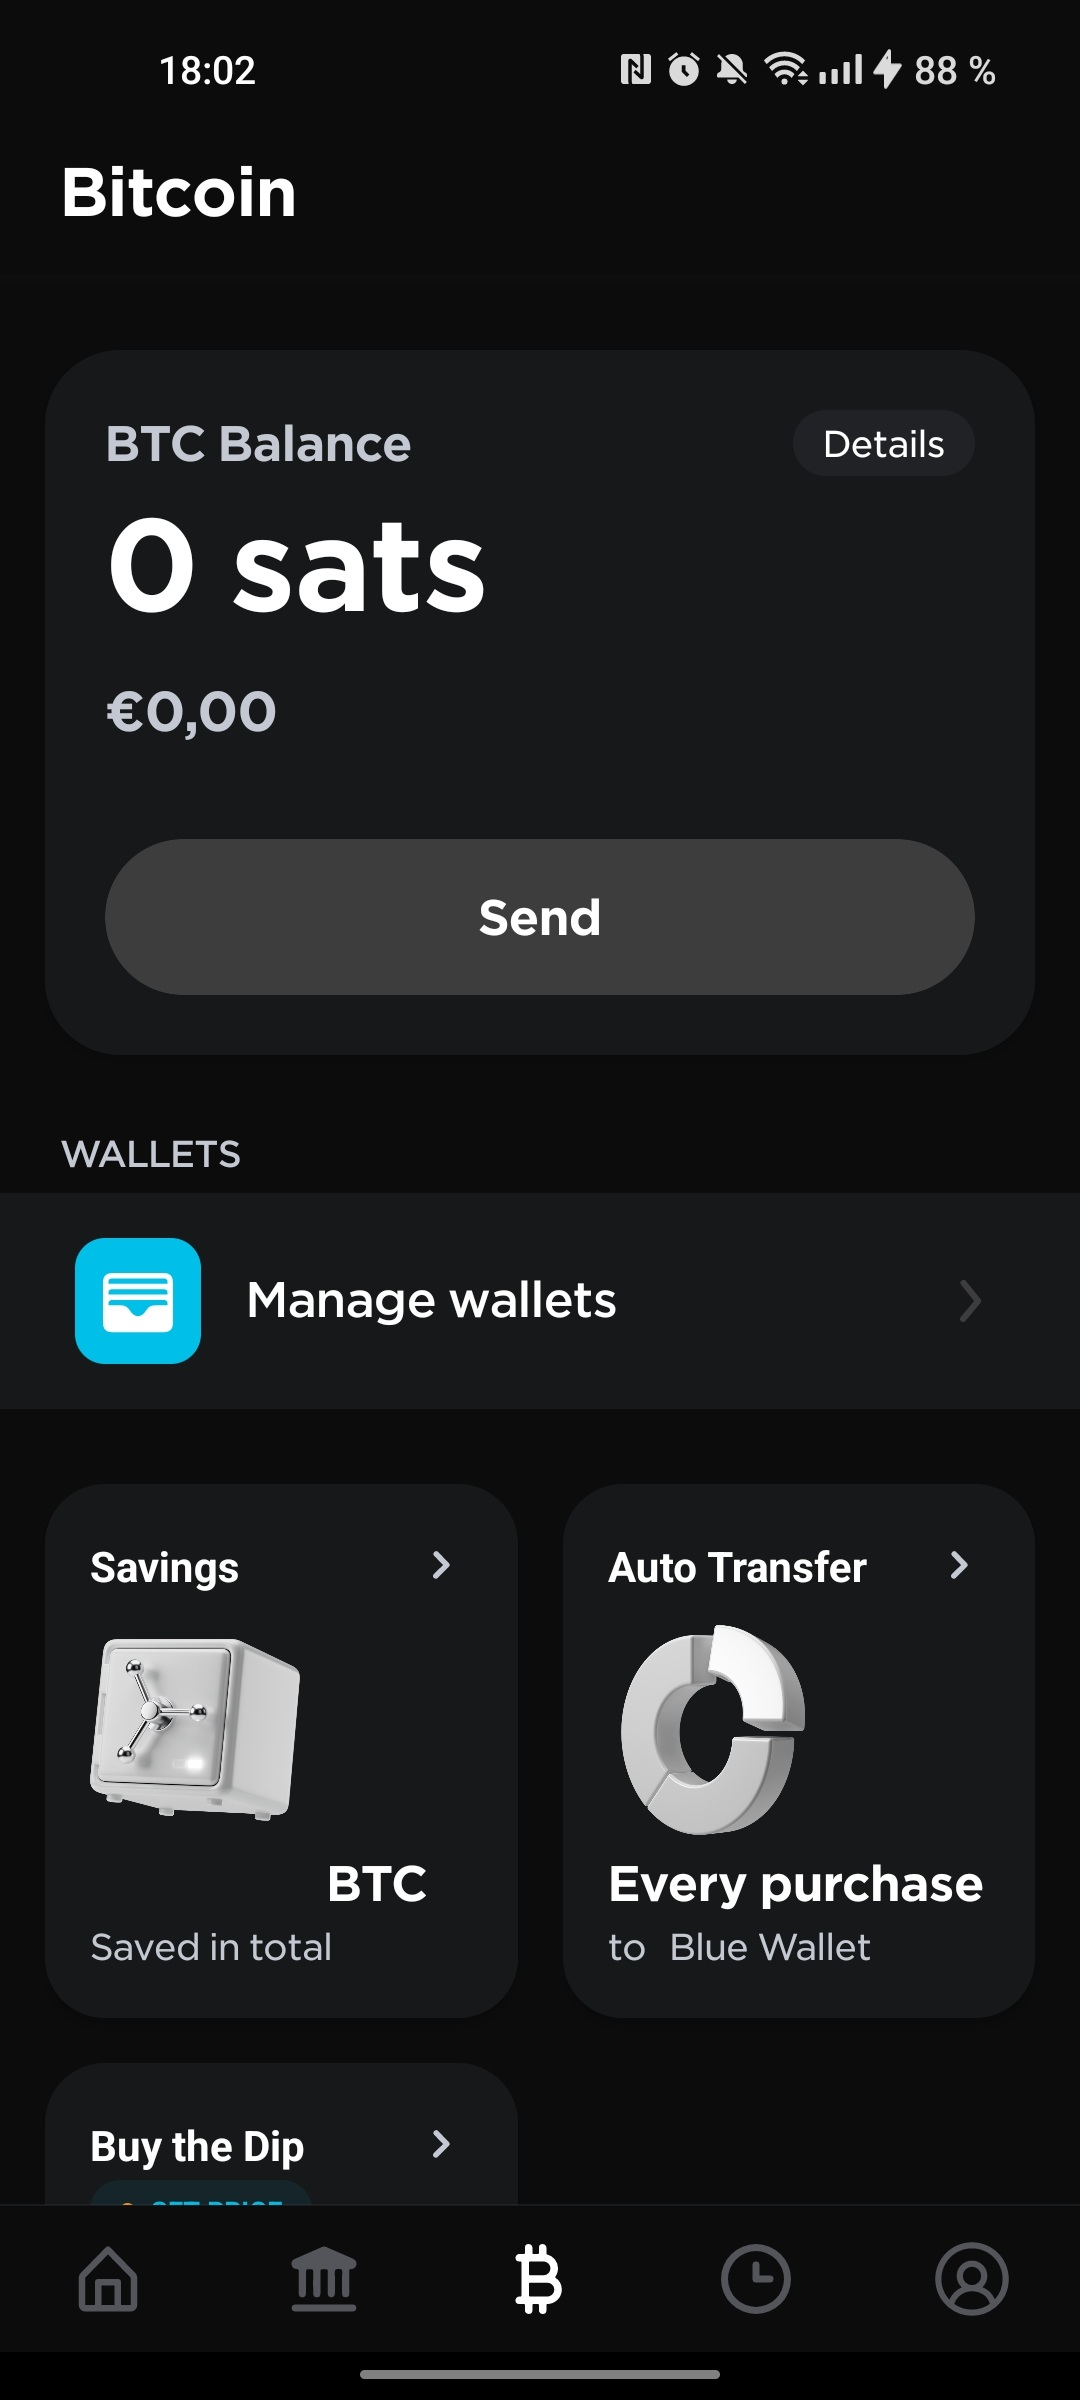
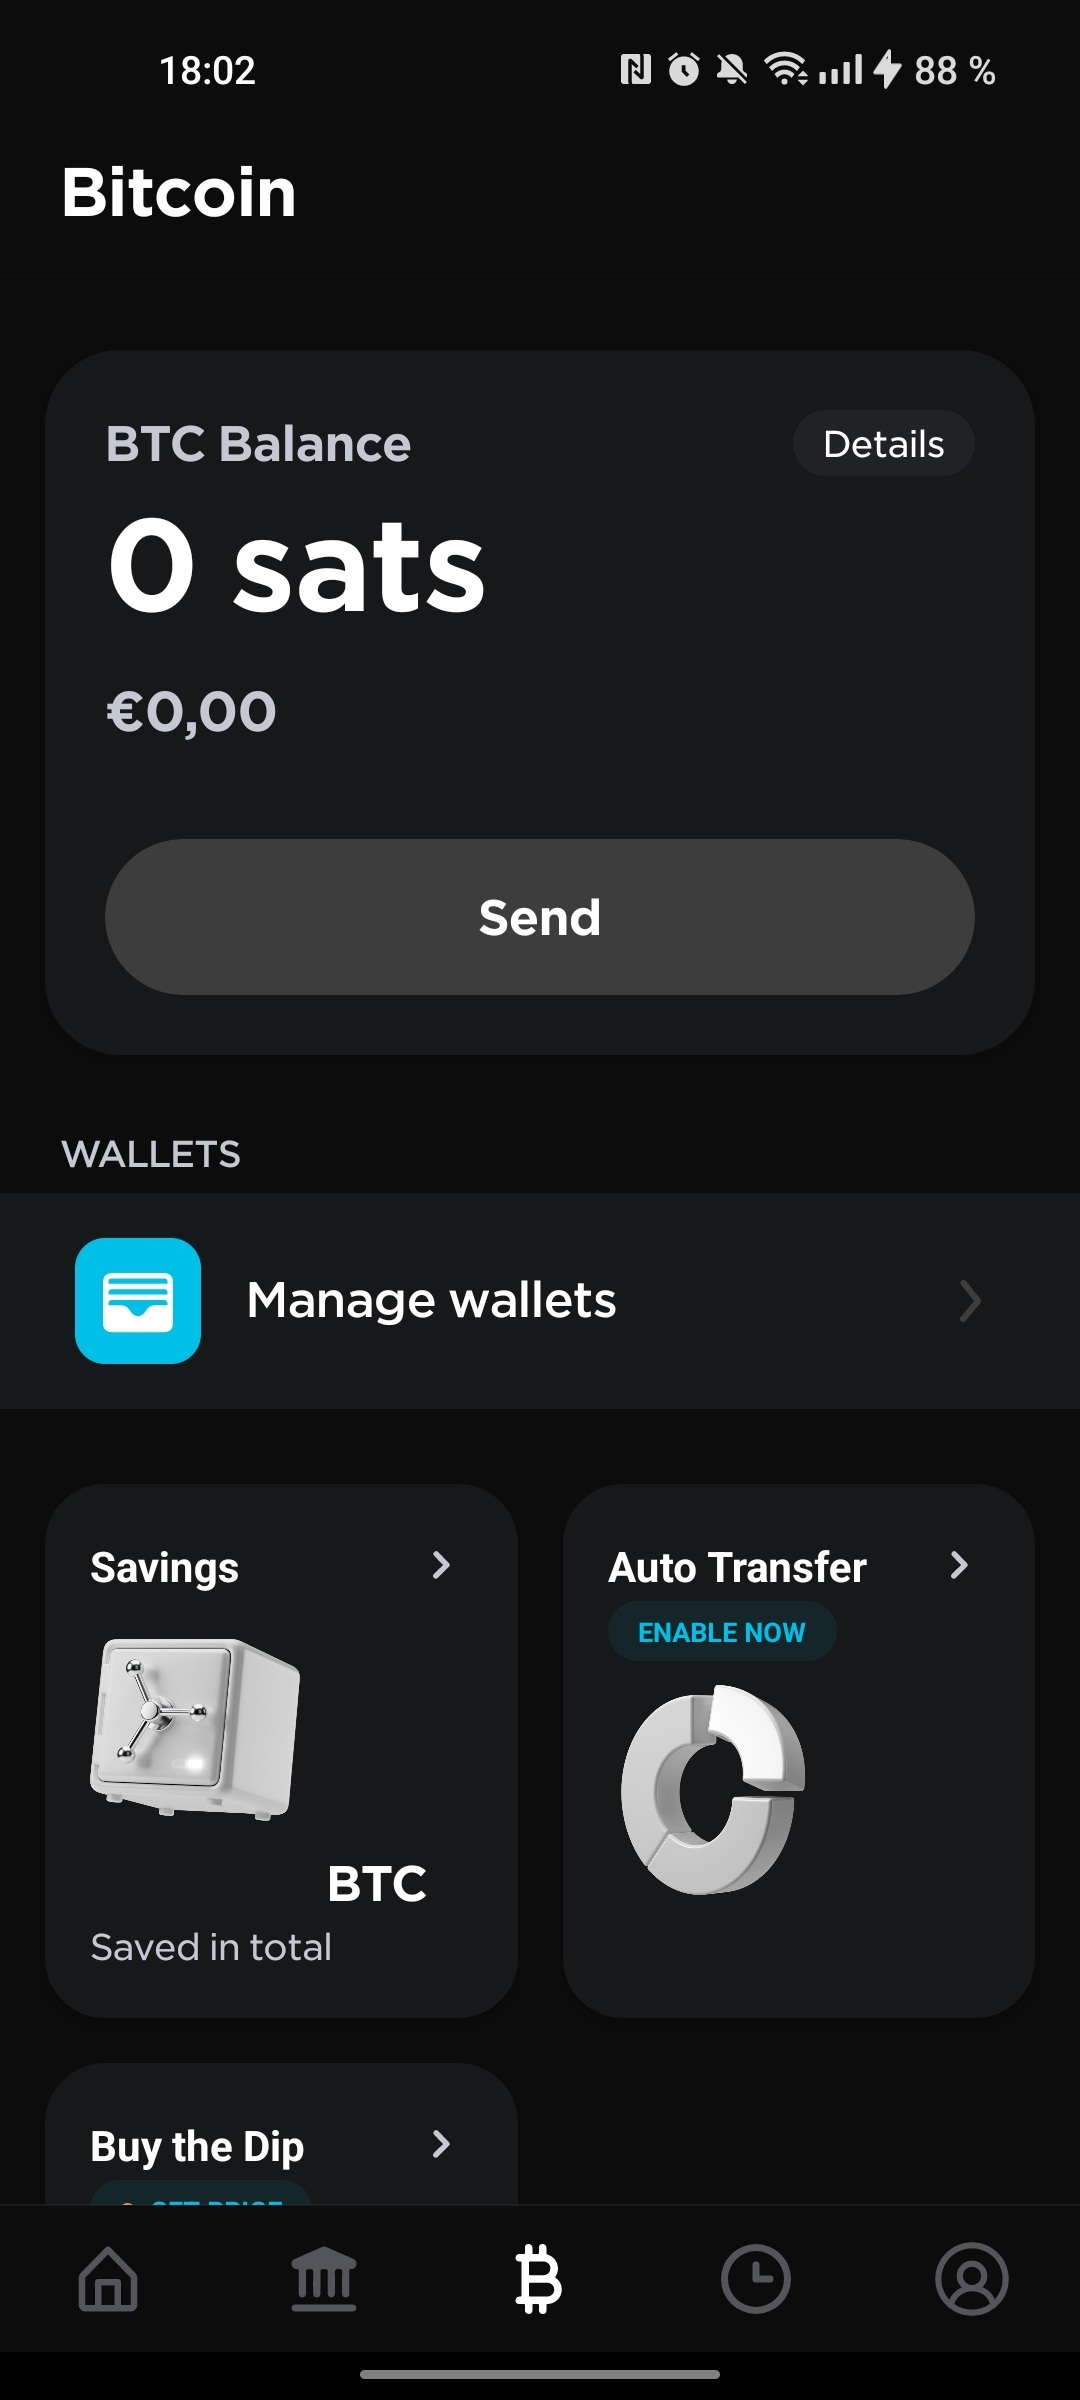
Improve the text and images of bitcoin-2 blog-post

Changed region(s): [[0.55, 0.6562, 0.9167, 0.8125]]

diff --git a/content/blog/2025-10-14-bitcoin-2.md b/content/blog/2025-10-14-bitcoin-2.md
@@ -104,10 +104,8 @@ cover_image = "/images/blog/2025-10-14-bitcoin-2/bitcoin-2.png"
 - Click <b>Save</b> at the top right
 
 <img class="phone-image" src="/images/blog/2025-10-14-bitcoin-2/bitw-1.jpg"></img>
-<img class="phone-image" src="/images/blog/2025-10-14-bitcoin-2/bitw-3.jpg"></img>
+<img class="phone-image" src="/images/blog/2025-10-14-bitcoin-2/bitw-2.jpg"></img>
 <img class="phone-image" src="/images/blog/2025-10-14-bitcoin-2/bitw-6.jpg"></img>
-
-<!-- <img class="phone-image" src="/images/blog/2025-10-14-bitcoin-2/bitw-7.jpg"></img> -->
 
 <p>Now you should be able to access your note called <i>Blue Wallet</i> in Bitwarden, and see your seed phrase inside of it.</p>
 
@@ -121,14 +119,17 @@ Let's see now how to configure automatic transfers from 21Bitcoin to our BlueWal
 
 <h4>Configuring Automatic Transfers</h4>
 
-<p>First, we need to get your Bitcoin address from BlueWallet. Go to <b>BlueWallet → Click MyBlueWallet card → Click Receive</b>. You'll see a QR code and a Bitcoin address that starts with <i>"bc1q..."</i>. <b>Click the address to copy it</b>.</p>
+<b>1. Obtain your Bitcoin address</b> 
+
+<p>Go to <b>BlueWallet → Click MyBlueWallet card → Click Receive</b>. You'll see a QR code and a Bitcoin address that starts with <i>"bc1q..."</i>. <b>Click the address to copy it</b>.</p>
 
 <img class="phone-image" src="/images/blog/2025-10-14-bitcoin-2/wallet-7.jpg"></img>
 <img class="phone-image" src="/images/blog/2025-10-14-bitcoin-2/wallet-4.jpg"></img>
 <img class="phone-image" src="/images/blog/2025-10-14-bitcoin-2/wallet-5.jpg"></img>
 
-<p>Let's configure automatic transfers in 21Bitcoin:</p>
+<b>2. Configure automatic transfers</b> 
 
+- Open **21Bitcoin**
 - Go to **Bitcoin → Auto Transfer**
 - Choose **Non-Custodial mode** (or **Set a balance limit***)
 - Click **Add Wallet**
@@ -138,8 +139,8 @@ Let's see now how to configure automatic transfers from 21Bitcoin to our BlueWal
 - **Confirm the wallet address matches** (check the last few characters)
 - **Select** the external wallet you added
 
+<img class="phone-image" src="/images/blog/2025-10-14-bitcoin-2/pp-1.jpg"></img>
 <img class="phone-image" src="/images/blog/2025-10-14-bitcoin-2/aa-3.jpg"></img>
-<img class="phone-image" src="/images/blog/2025-10-14-bitcoin-2/aa-8.jpg"></img>
 <img class="phone-image" src="/images/blog/2025-10-14-bitcoin-2/aa-14.jpg"></img>
 
 > <p>* In 21Bitcoin, you have two automatic transfer options:</p>
@@ -152,7 +153,7 @@ Let's see now how to configure automatic transfers from 21Bitcoin to our BlueWal
 <b>Using Your Bitcoin</b> 
 <p>Once your sats are in BlueWallet, you can send Bitcoin to others using the Send button. You can scan the QR code or enter the bitcoin address; and adjust transaction fees. Every transaction appears on the <a target="_blank" href="https://mempool.space/">mempool</a>, where you can see your transaction's status and current network fees in real-time.</p>
 
-> **⚠ Important:** Before sending Bitcoin, always double-check that the last 5 characters of the address match what you copied. Bitcoin transactions can't be reversed!
+> **⚠ Important:** Before sending Bitcoin, always double-check that the last 5 characters of the address match what you copied. If you send to the wrong address, your Bitcoin is gone!
 
 ---
 <!-- Visual break before conclusion - changes based on time of year -->
